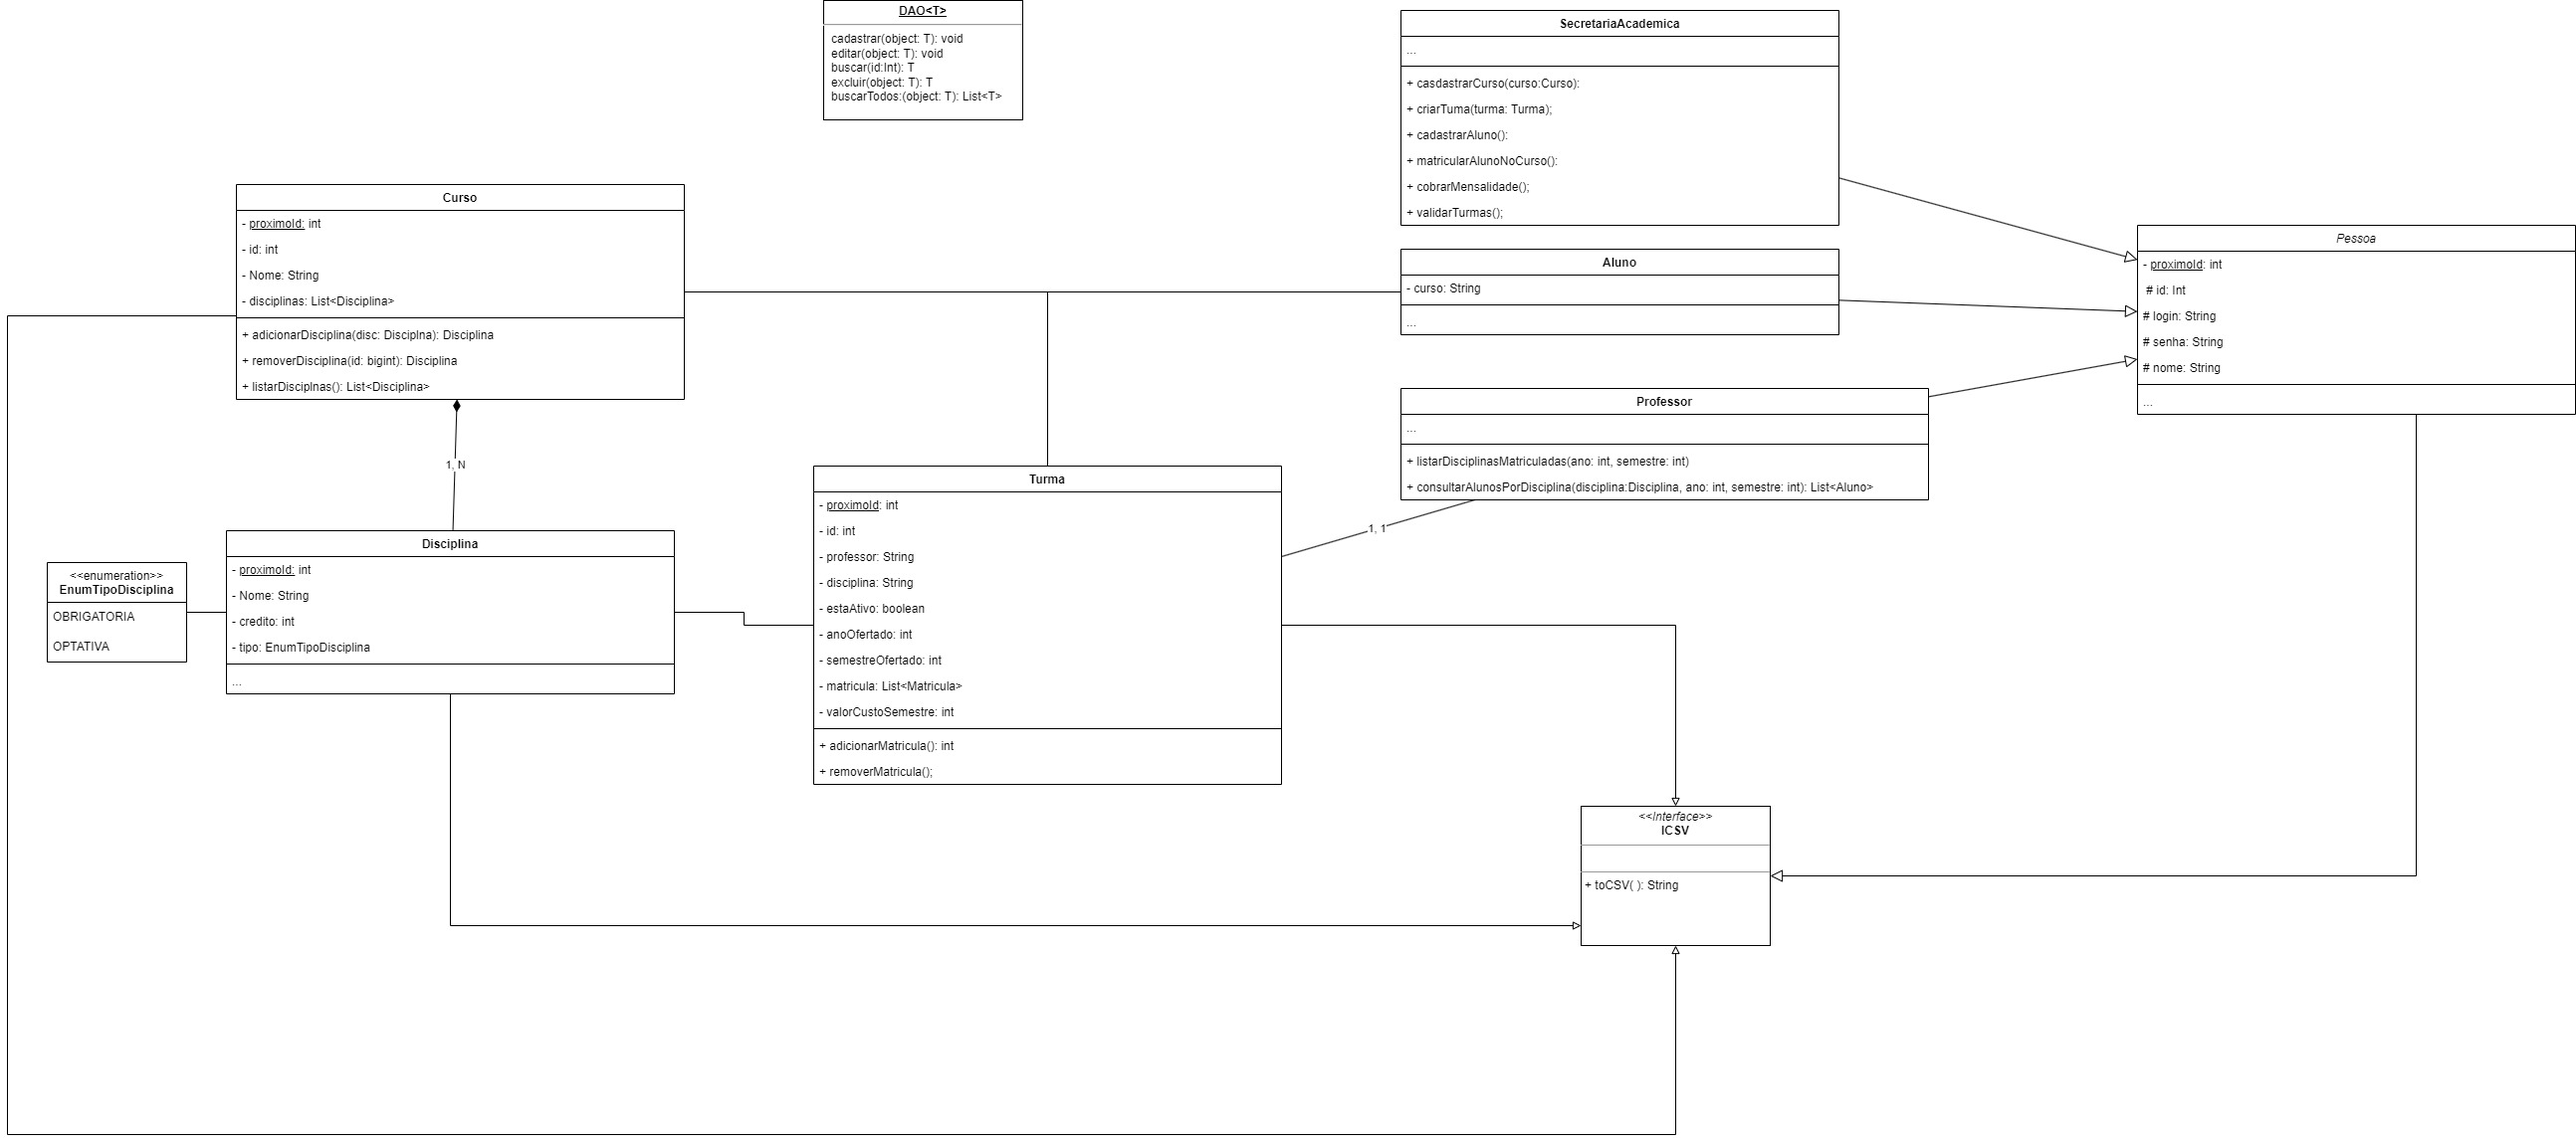
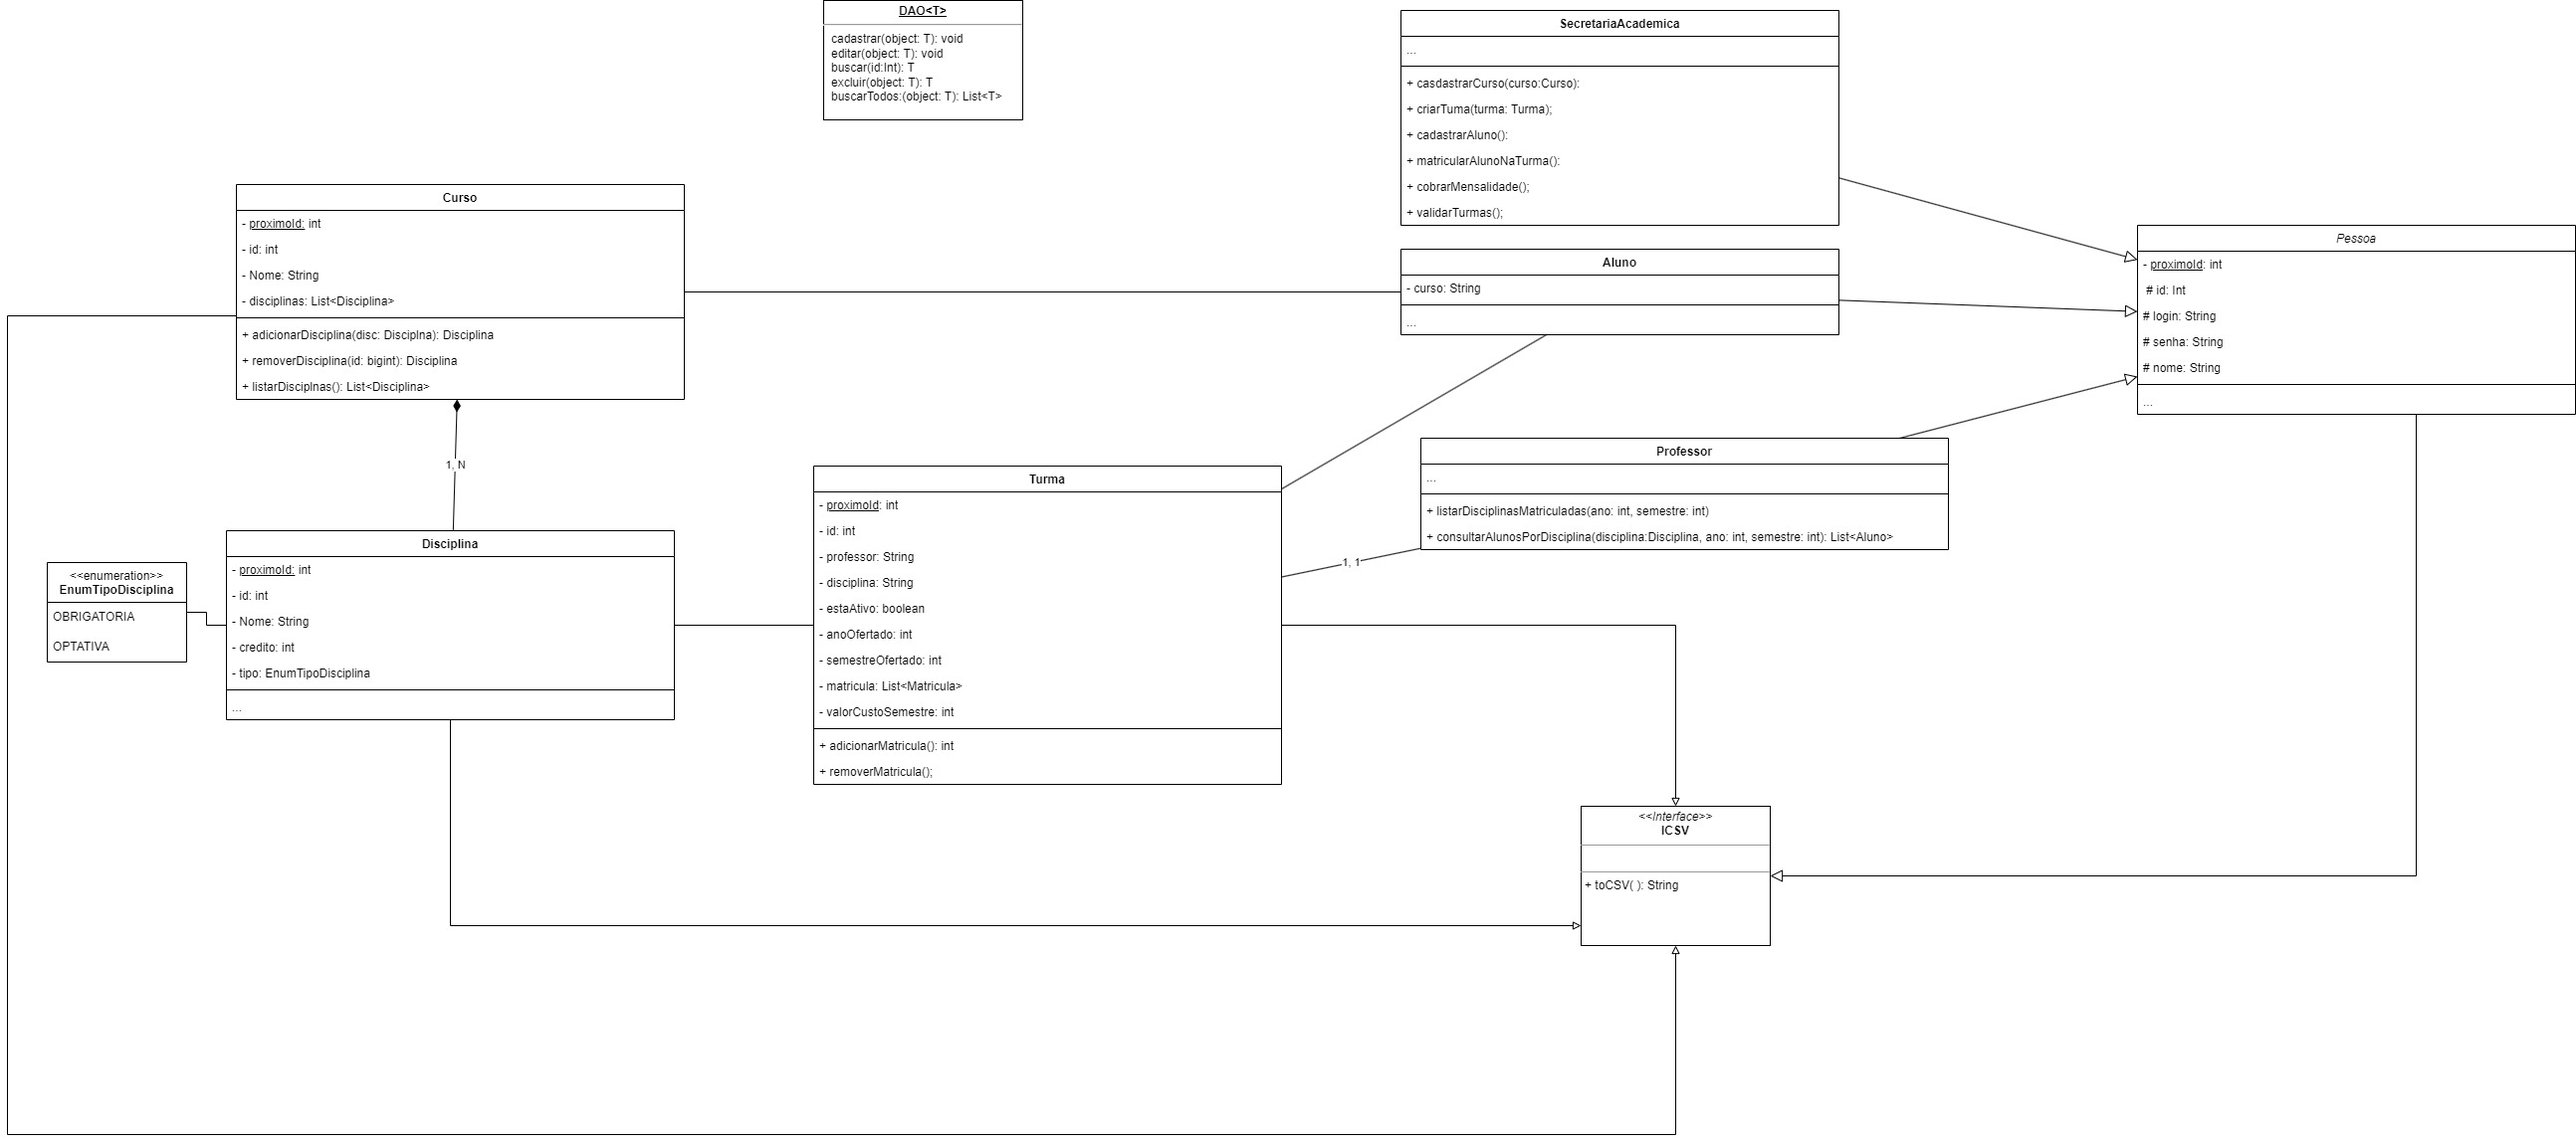
update readme, inclusão diagrama de classe

diff --git a/README.md b/README.md
@@ -18,71 +18,79 @@ Os professores podem acessar o sistema para saber quais são os alunos que estã
 
 Todos os usuários do sistema têm senhas que são utilizadas para validação do respectivo login.
 
-
 ## História de usuários
 
 Agentes: Secretário(a), Professor(a), Aluno(a)
 
-
 **Secretário(a)** :
-* Como um(a) secretário(a), eu gostaria de ter um login e senha para acessar o sistema.
-* Como um(a) secretário(a), eu gostaria de gerar um currículo para cada semestre.
 
+- Como um(a) secretário(a), eu gostaria de ter um login e senha para acessar o sistema.
+- Como um(a) secretário(a), eu gostaria de gerar um currículo para cada semestre.
 
 **Aluno(a)**
-* Como um(a) aluno(a), eu gostaria de ter um login e senha para acessar o sistema.
-* Como um(a) aluno(a), eu gostaria de realizar a matrícula do semestre.
-* Como um(a) aluno(a), eu gostaria de adiconar disciplinas obrigátórias e opcionais.
 
+- Como um(a) aluno(a), eu gostaria de ter um login e senha para acessar o sistema.
+- Como um(a) aluno(a), eu gostaria de realizar a matrícula do semestre.
+- Como um(a) aluno(a), eu gostaria de adiconar disciplinas obrigátórias e opcionais.
 
 **Professor(a)**
-* Como um(a) professor(a), eu gostaria de ter um login e senha para acessar o sistema.
-* Como um(a) professor(a), eu gostaria de saber quem são os alunos matriculados na minha disciplina.
 
+- Como um(a) professor(a), eu gostaria de ter um login e senha para acessar o sistema.
+- Como um(a) professor(a), eu gostaria de saber quem são os alunos matriculados na minha disciplina.
 
 ## Casos de uso
 
 ### Diagrama de Caso de Uso
+
 ![diagrama de caso de uso](./Projeto/DCU.jpg)
 
 ### Descrição do caso de uso para cada ator
-### *Gerar currículo para o semestre*
+
+### _Gerar currículo para o semestre_
+
 Ator: Secreterário(a)
 
 **Fluxo normal:**
+
 1. O sistema autentica o(a) secretário(a) com login e senha
 2. O(a) secretario(a) gera o currículo para o semestre de um curso.
 3. O(a) secretario(a) adiciona disciplinas do currículo com seus repectivos professores, créditos e infromações para os alunos se matricularem.
 
 **FLuxo alternativo**
-* 3(a) O sistema somente permitirá que disciplinas com no mínimo 3 alunos fiquem ativas após o fim do prazo de matrículas e cancelará
-as que não cumprem estas condições.
 
+- 3(a) O sistema somente permitirá que disciplinas com no mínimo 3 alunos fiquem ativas após o fim do prazo de matrículas e cancelará
+  as que não cumprem estas condições.
 
+### _Matricular-se_
 
-### *Matricular-se*
 Ator: Aluno(a)
 
 **Fluxo normal**:
+
 1. O sistema autentica o(a) aluno(a) com login e senha.
 2. O(a) aluno(a) Matricula-se em até 4 disciplinas obrigatórias e até 2 optativas por semestre.
 3. O sistema notifica o sistema de cobranças após o aluno(a) se matricular
 4. O(a) Aluno(a) pode alterar suas disciplinas as incluindo e/ou excluindo.
 5. O(a) aluno(a) pode cancelar sua matrícula.
 
-
 **Fluxo alternativo**
-* 2a : O(a) aluno não pode se matricular fora do prazo.
-* 4a : O(a) aluno não pode se alterar as disciplinas fora do prazo.
-* 5a : O(a) aluno não pode cancelar a matrícula fora do prazo.
 
+- 2a : O(a) aluno não pode se matricular fora do prazo.
+- 4a : O(a) aluno não pode se alterar as disciplinas fora do prazo.
+- 5a : O(a) aluno não pode cancelar a matrícula fora do prazo.
 
-### *Verificar alunos*
+### _Verificar alunos_
+
 Ator: Professor(a)
 
 **Fluxo principal:**
+
 1. O sistema autentica o(a) professor(a) com login e senha.
 2. O sistema informa para o professor os alunos que estão na(s) sua(s) disciplina(s) informadas.
+
+### Diagrama de Classe (domínio)
+
+![diagrama de classe](./Projeto/Diagramas-ClasseV4.jpg)
 
 ## Referências
 
